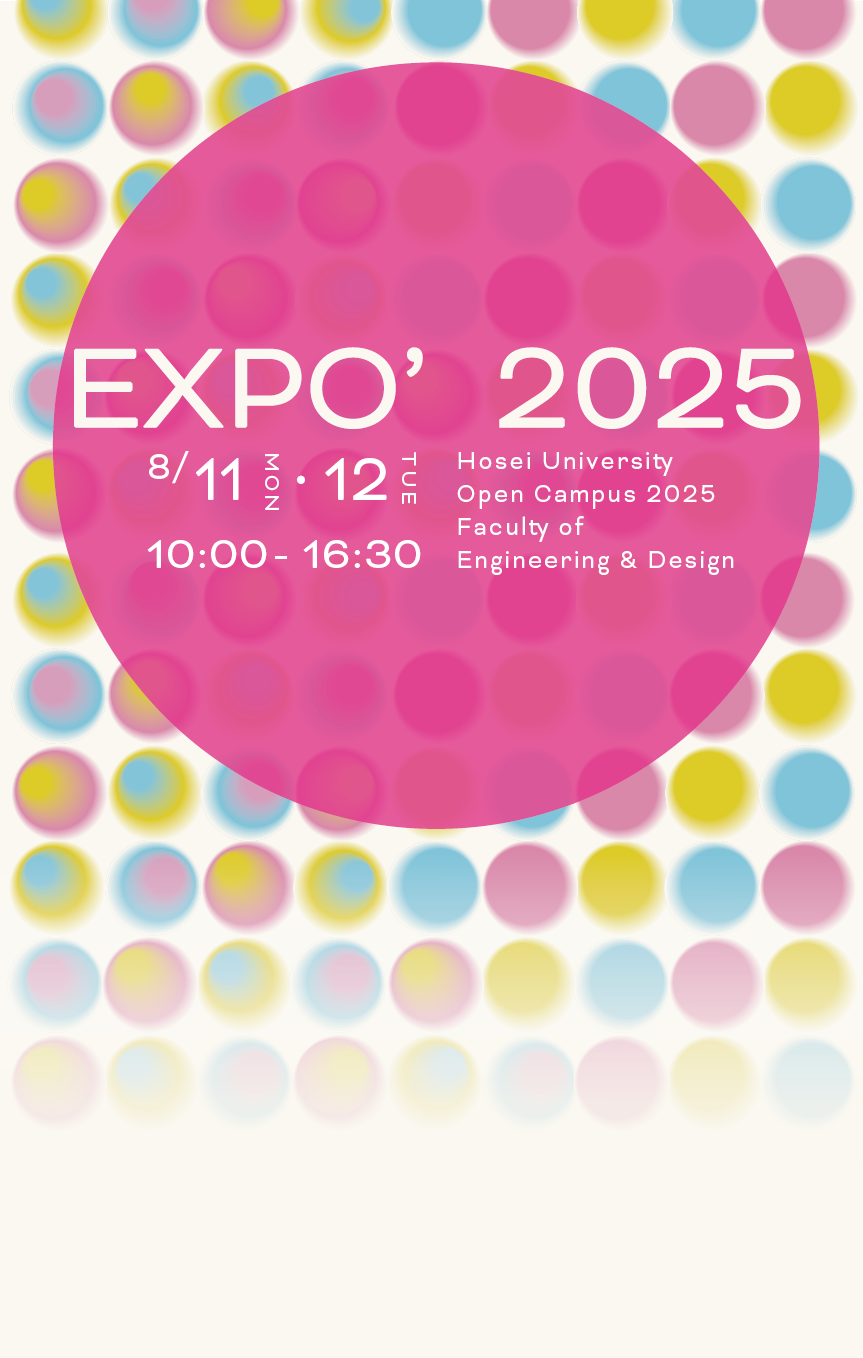
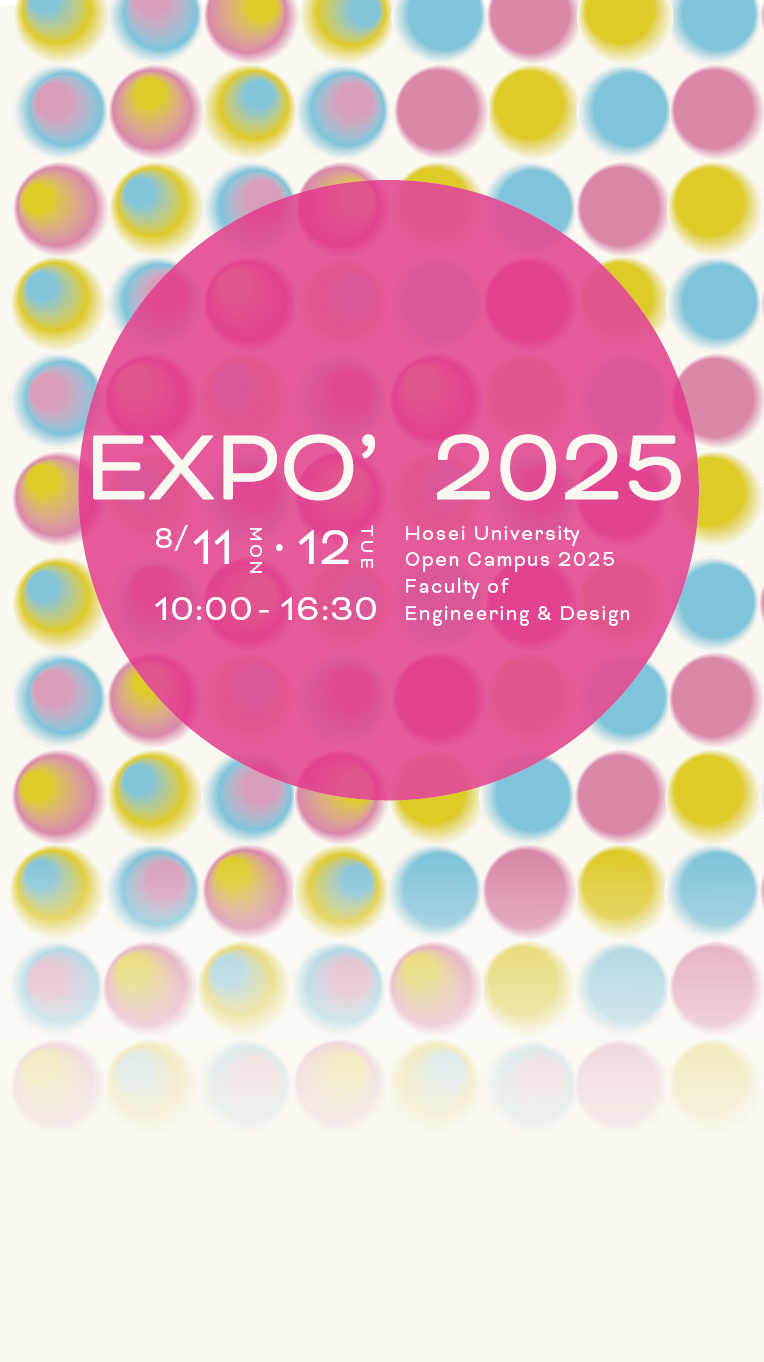
d

diff --git a/styles.css b/styles.css
@@ -9,6 +9,7 @@ body {
   letter-spacing: 0.1em; /* ← 適度に文字の間隔を広げる */
   color: #E2338C;
   background-color: #FBF9F1;
+  
 }
 
 /* ヘッダー背景画像 */
@@ -17,14 +18,14 @@ header {
   background-size: contain;      /* ← 横幅優先で、すべての画像が見えるように */
   background-repeat: no-repeat;
   background-position: top center;
-  width: 92vw;
-  height: 29vh;
+  width: 100vw;
+  height: 40vh;
   display: flex;
   flex-direction: column;
   justify-content: center;
   padding: 80px 16px;
-  
 }
+
 
 .header-left {
   display: flex;
